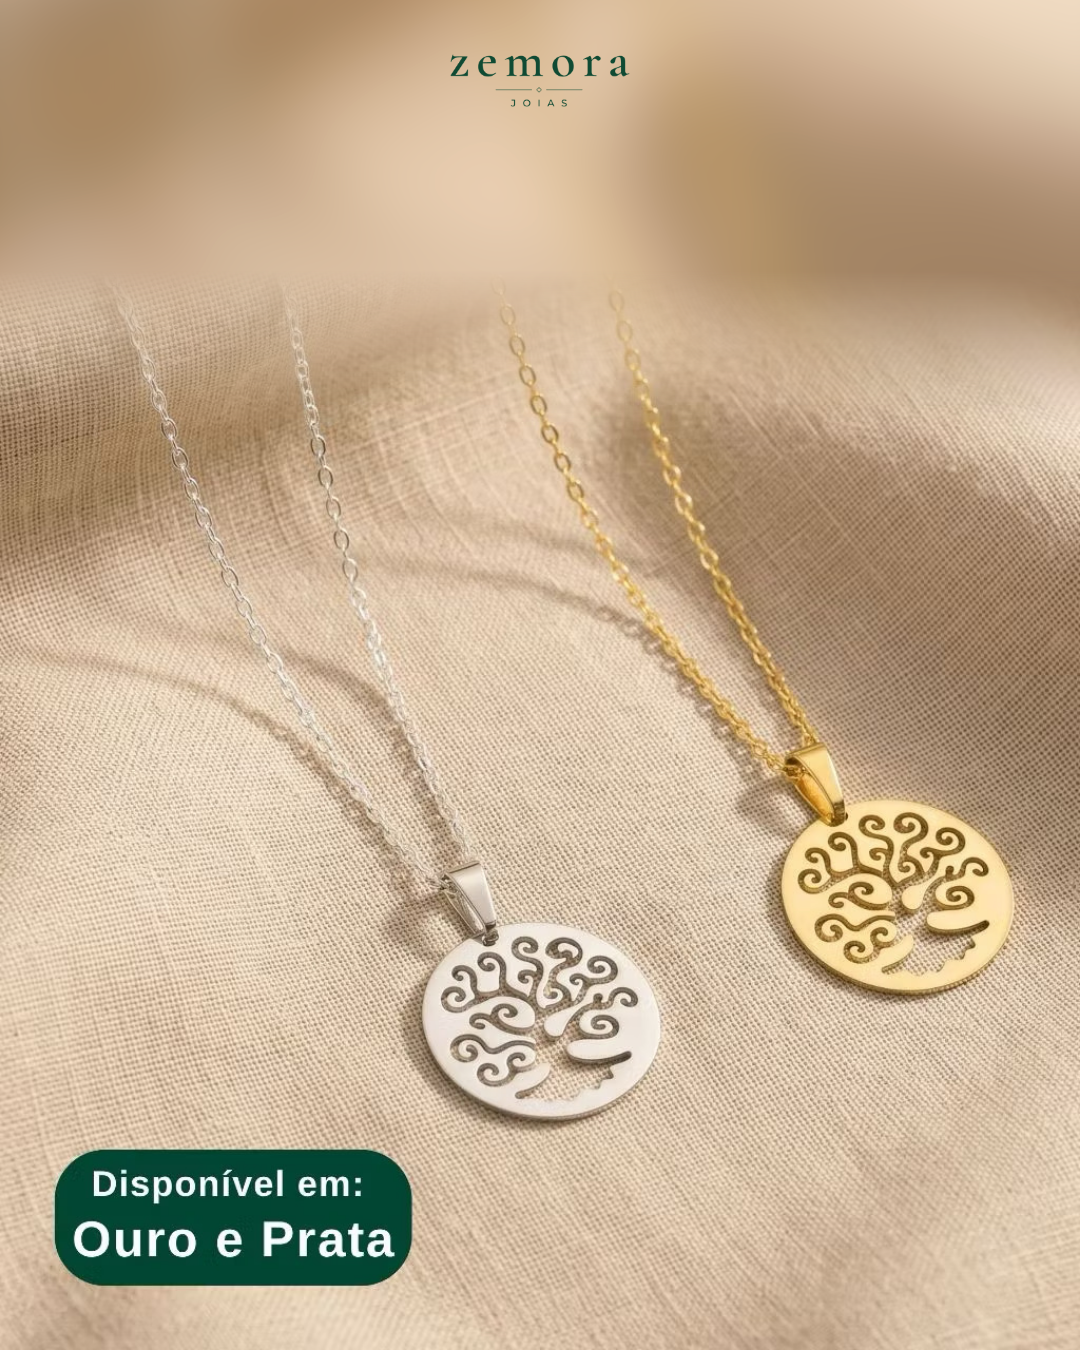
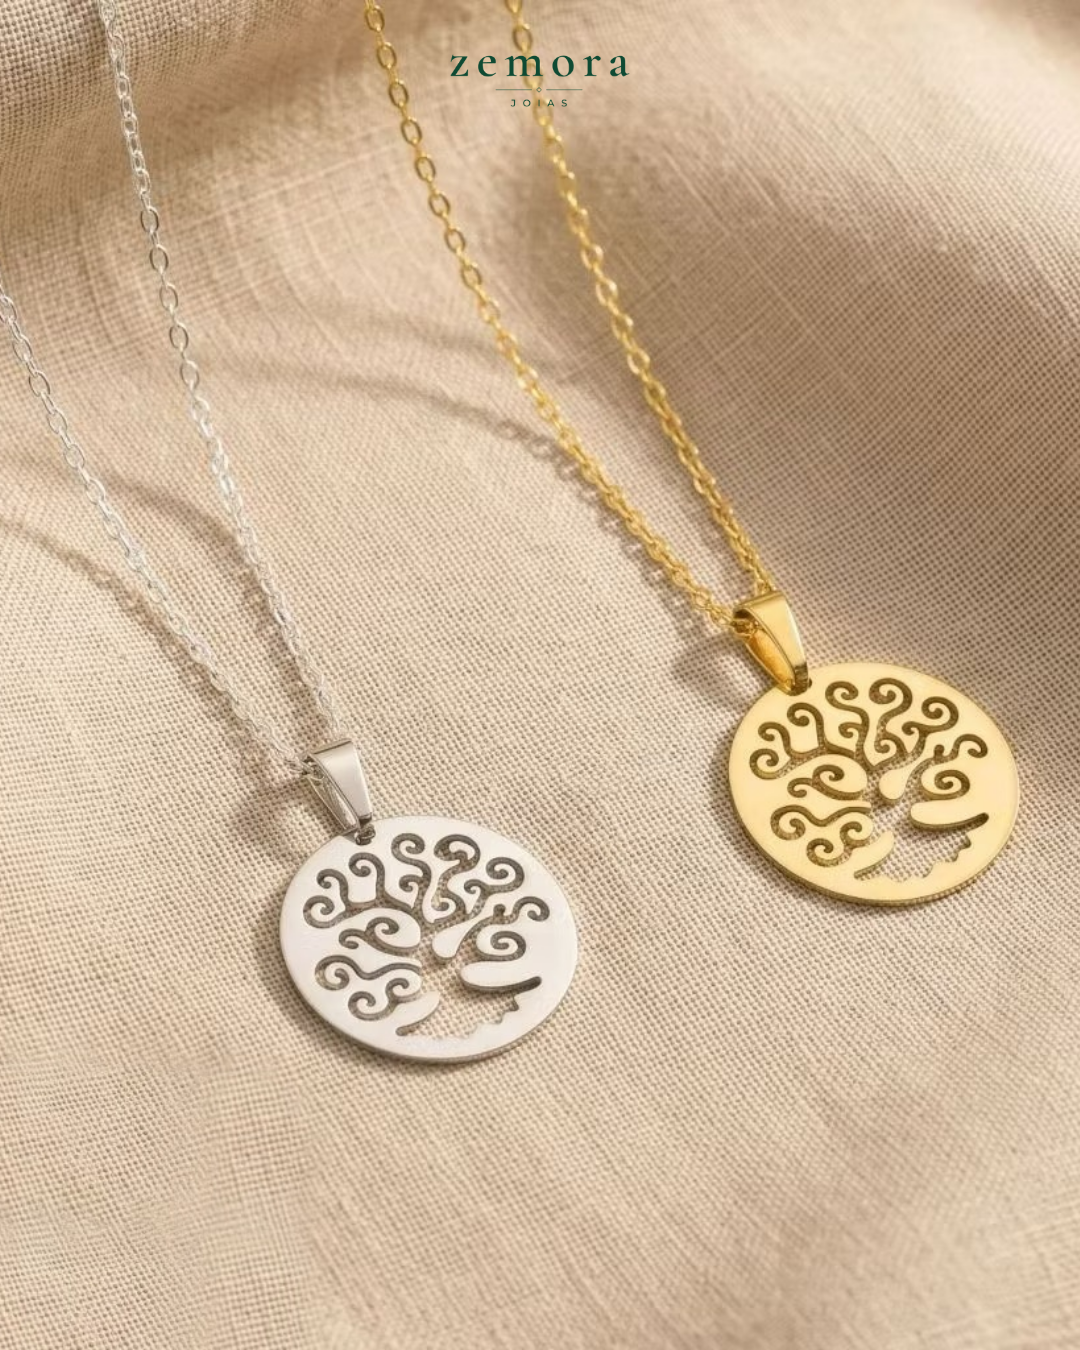
Carrossel de ofertas: card 4 sem faixa desfocada no topo
Claude-Session: https://claude.ai/code/session_01Ds4o6DPNY229NefAqtX4RB

diff --git a/cards/render-carrossel.js b/cards/render-carrossel.js
@@ -18,7 +18,7 @@ const sets={dp:[
  {n:1,logo:'logo-zemora-verde.png',foto:'bf6-pescoco.jpg',pos:'50% 35%',v:'top:175px',ts:104,body:`<div class="kick-thin">BLACK FRIDAY ZEMORA</div><h1 class="dark thin">Joias com<br>até <b>30% off</b></h1><div class="sub thin-sub"><span>de 23 a 28/11</span></div>`},
  {n:2,logo:'logo-zemora-verde.png',foto:'bf6-coracao.jpg',pos:'50% 50%',v:'top:-999px',ts:0,body:''},
  {n:3,logo:'logo-zemora-verde.png',foto:'bf6-argolas.jpg',pos:'50% 50%',v:'top:-999px',ts:0,body:''},
- {n:4,logo:'logo-zemora-verde.png',foto:'bf6-arvore.jpg',pos:'50% 50%',img:'filter:blur(30px) brightness(1.02);transform:scale(1.15)',v:'top:-999px',ts:0,body:`<div style="position:fixed;left:0;bottom:0;width:1080px;height:1080px;background:url(bf6-arvore.jpg) center/cover;-webkit-mask-image:linear-gradient(to bottom,transparent 0,#000 160px)"></div>`},
+ {n:4,logo:'logo-zemora-verde.png',foto:'bf6-arvore-limpa.jpg',pos:'92% 50%',v:'top:-999px',ts:0,body:''},
  {n:5,logo:'logo-zemora-verde.png',foto:'bf6-arvore-pescoco.jpg',pos:'50% 100%',v:'bottom:80px',ts:0,body:`<div class="kick-thin" style="color:#0f4a33">GARANTA A SUA</div><div class="thin-chips">`+chips('Shopee, TikTok Shop, Amazon, Mercado Livre')+`</div>`},
  ],
  precos:[
